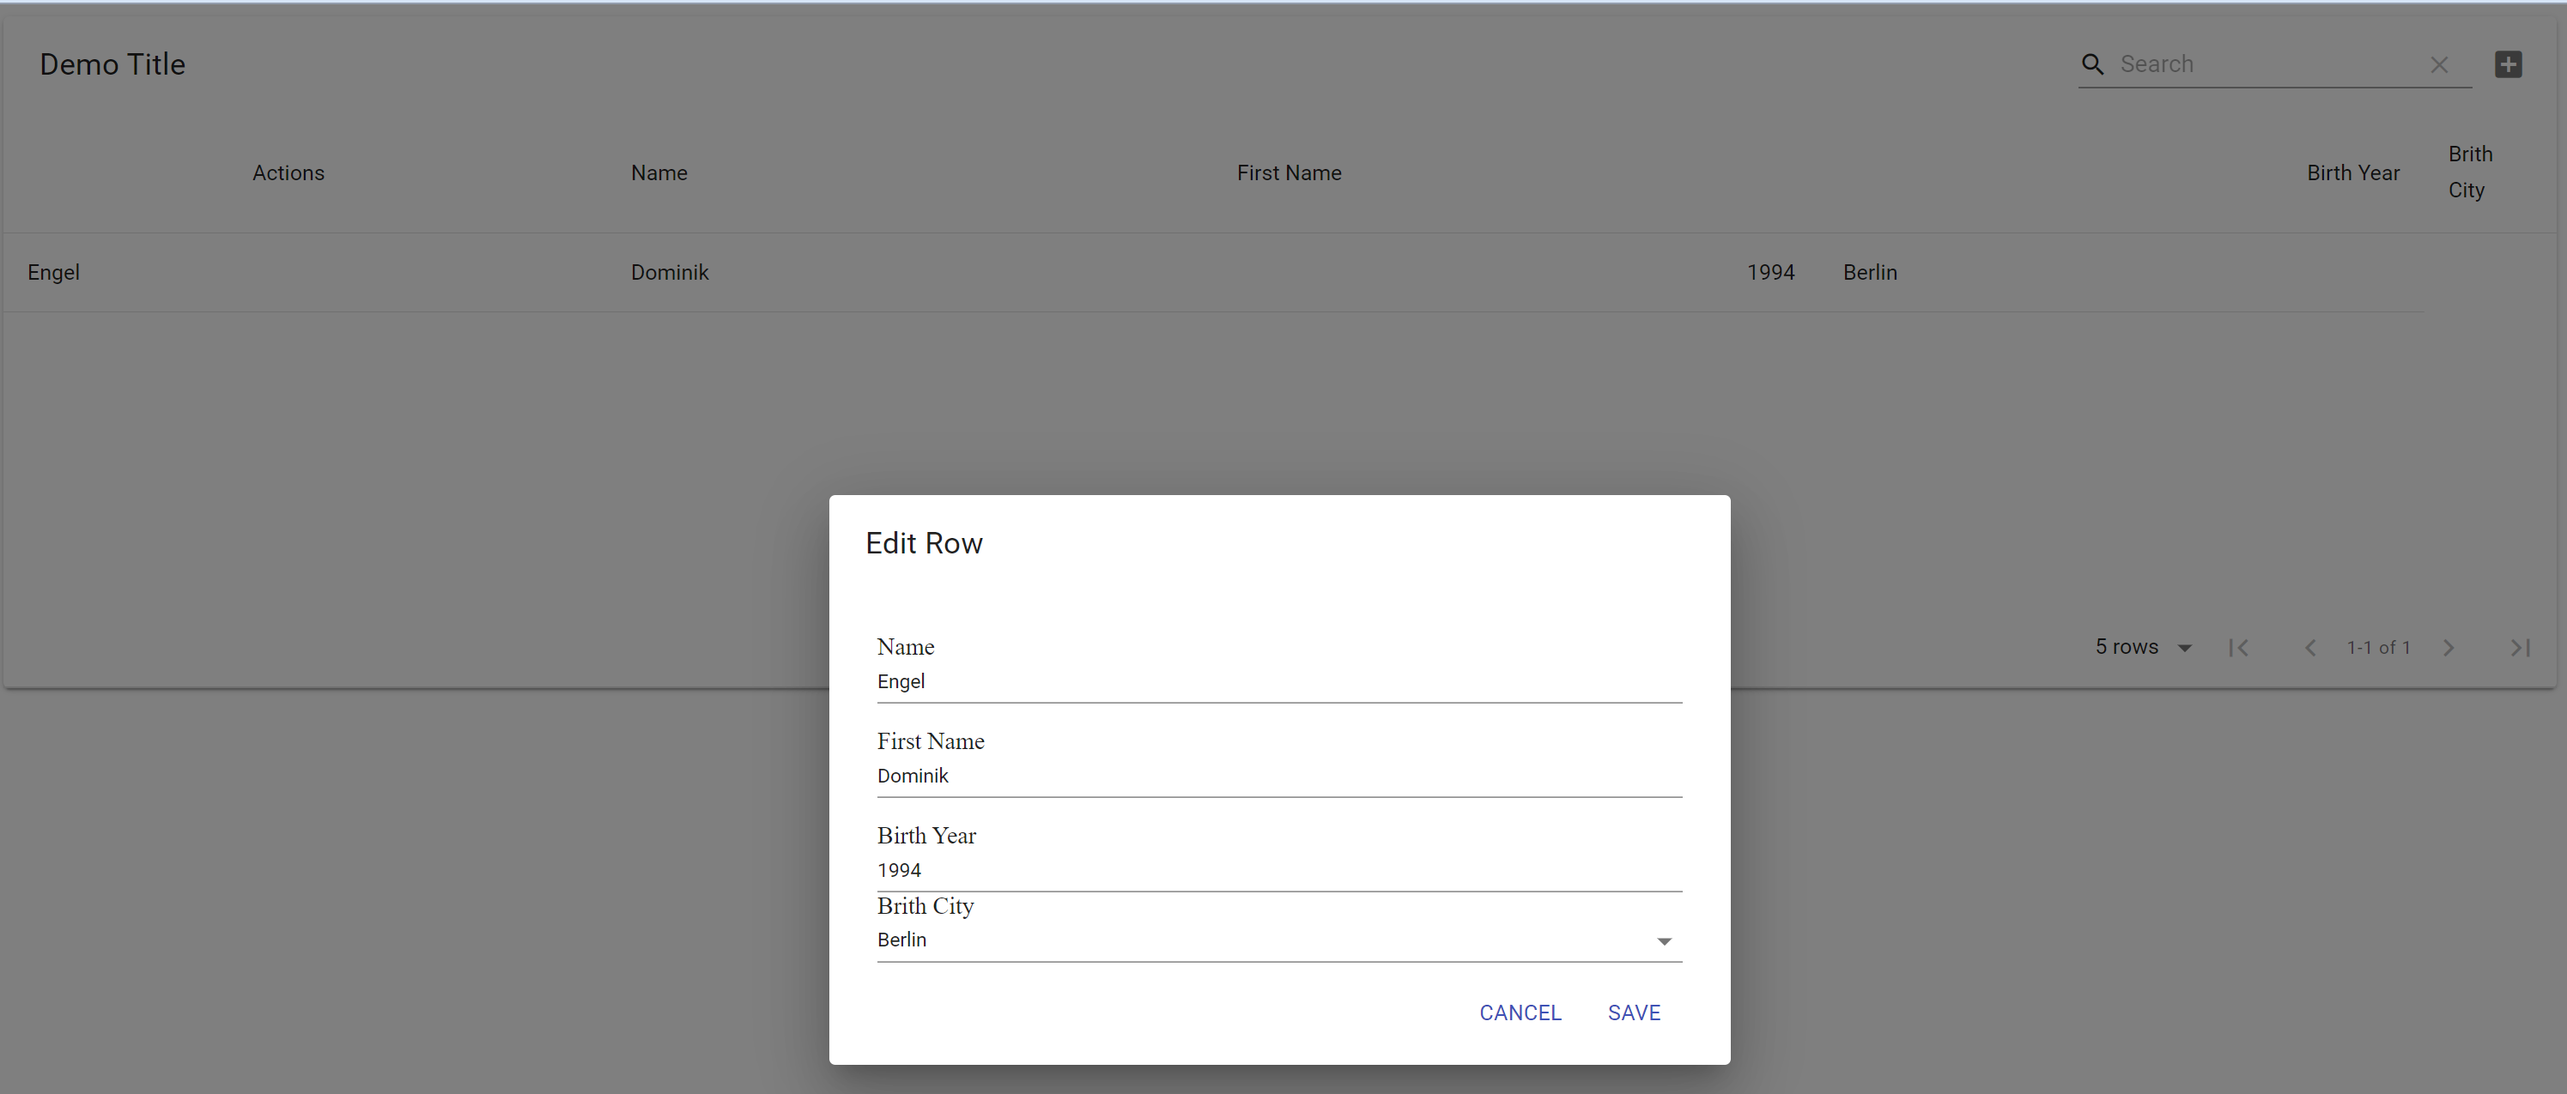
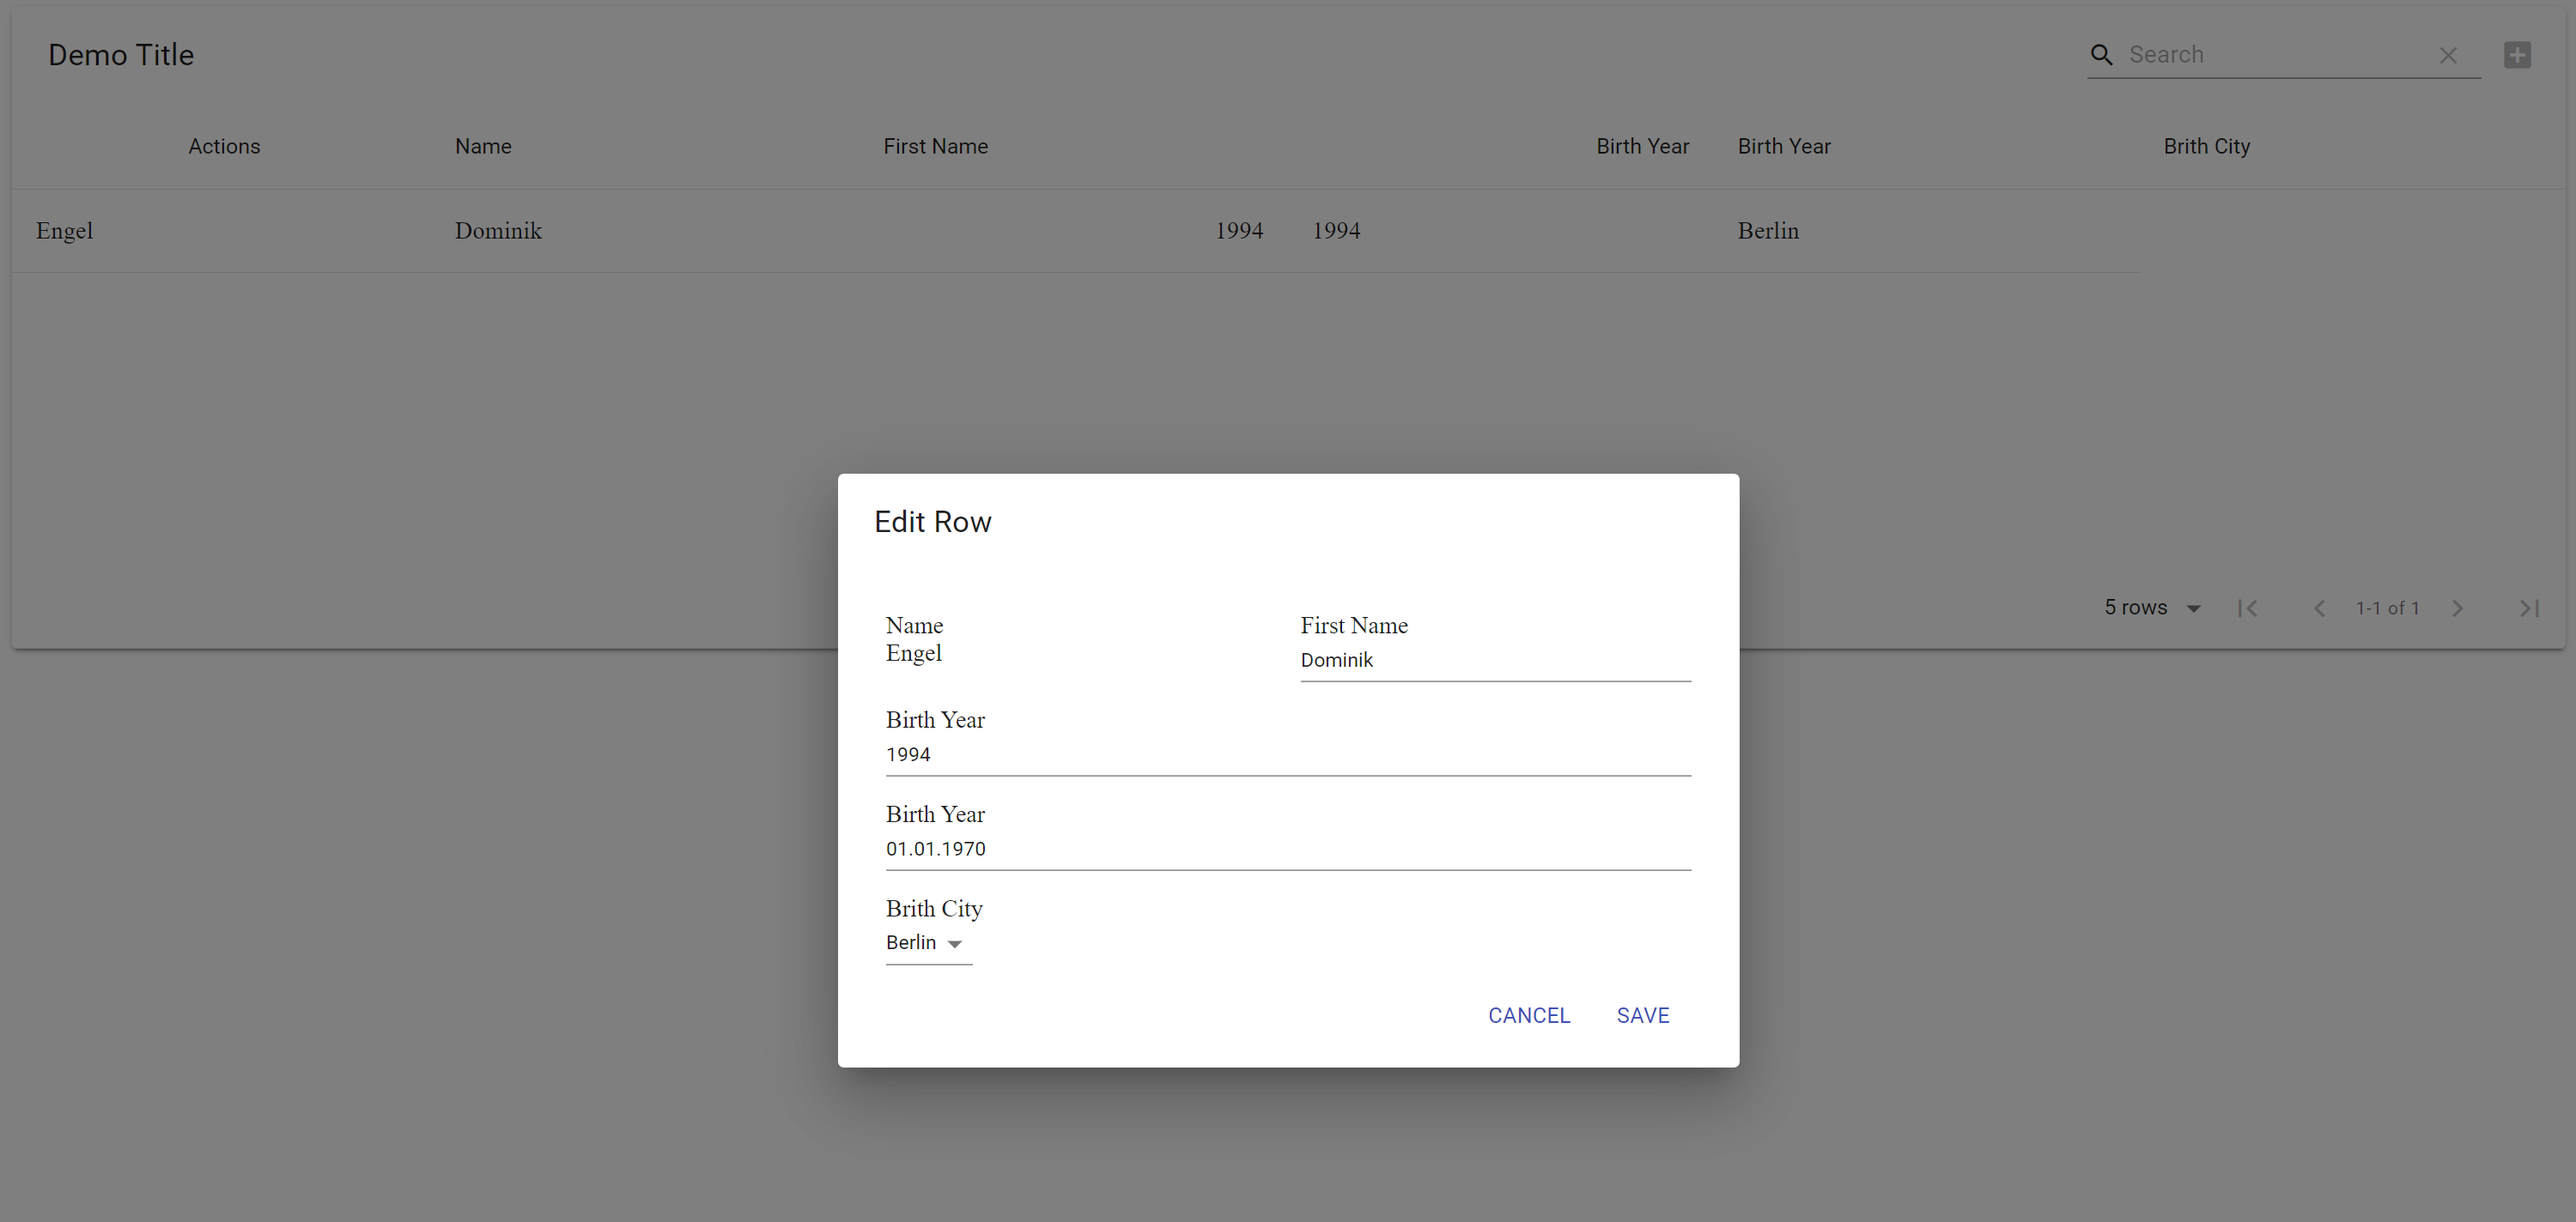
Support for Grid

diff --git a/src/index.tsx b/src/index.tsx
@@ -21,6 +21,8 @@ import {
   CircularProgress,
   makeStyles,
   DialogContentText,
+  Grid,
+  GridProps,
 } from '@material-ui/core';
 
 const useStyles = makeStyles({
@@ -28,6 +30,10 @@ const useStyles = makeStyles({
     padding: 8,
   },
 });
+
+interface IColumn<Data extends object> extends Column<Data> {
+  gridProps?: Partial<GridProps>;
+}
 
 interface IData extends Object {
   tableData?: {};
@@ -38,6 +44,7 @@ interface IFormikWrapperProps<RowData extends IData>
   validate?: (value: RowData) => void | object | Promise<FormikErrors<RowData>>;
   validationSchema?: any | (() => any);
   localization?: IWrapperLocalization;
+  columns: IColumn<RowData>[];
 }
 
 interface IWrapperLocalization extends Localization {
@@ -106,7 +113,7 @@ interface IFormikDialogProps<RowData extends IData> {
   };
   editField: (props: any) => React.ReactElement<any>;
   displayField: (props: any) => React.ReactElement<any>;
-  columns: Column<RowData>[];
+  columns: IColumn<RowData>[];
   data?: RowData;
   components: Components;
   icons: Icons;
@@ -180,7 +187,7 @@ function FormikDialog<RowData extends IData>({
       break;
   }
   const getEditCell = (
-    column: Column<RowData>,
+    column: IColumn<RowData>,
     field: any,
     meta: any,
     setValues: (rowData: RowData) => void
@@ -214,7 +221,7 @@ function FormikDialog<RowData extends IData>({
         value: field.value,
         onChange,
         onRowDataChange,
-        columnDef: column as EditCellColumnDef,
+        columnDef: (column as any) as EditCellColumnDef,
         error: meta.error !== undefined,
       });
     } else {
@@ -225,7 +232,6 @@ function FormikDialog<RowData extends IData>({
         helperText: meta.error,
         error: meta.error !== undefined,
       };
-      console.log(errorProps);
       return (
         <EditCell
           {...field}
@@ -260,24 +266,31 @@ function FormikDialog<RowData extends IData>({
           {({ isSubmitting, handleSubmit, setValues }) => (
             <form onSubmit={handleSubmit}>
               <DialogContent>
-                {mode !== 'delete' &&
-                  columns
-                    .filter(column => isColumnVisible(column, mode))
-                    .map(column => (
-                      <Field key={column.field} name={column.field}>
-                        {({ field, meta }: FieldAttributes<any>) => {
-                          return (
-                            <div className={classes.field}>
-                              <label htmlFor={column.field as string}>
-                                {column.title}
-                              </label>
-                              <br />
-                              {getEditCell(column, field, meta, setValues)}
-                            </div>
-                          );
-                        }}
-                      </Field>
-                    ))}
+                <Grid container={true}>
+                  {mode !== 'delete' &&
+                    columns
+                      .filter(column => isColumnVisible(column, mode))
+                      .map(column => (
+                        <Field key={column.field} name={column.field}>
+                          {({ field, meta }: FieldAttributes<any>) => {
+                            return (
+                              <Grid
+                                className={classes.field}
+                                item={true}
+                                xs={12}
+                                {...column.gridProps}
+                              >
+                                <label htmlFor={column.field as string}>
+                                  {column.title}
+                                </label>
+                                <br />
+                                {getEditCell(column, field, meta, setValues)}
+                              </Grid>
+                            );
+                          }}
+                        </Field>
+                      ))}
+                </Grid>
                 {mode === 'delete' && (
                   <DialogContentText>
                     {localization.deleteText}
@@ -319,7 +332,7 @@ function FormikDialog<RowData extends IData>({
 }
 
 function canEdit<RowData extends object>(
-  column: Column<RowData>,
+  column: IColumn<RowData>,
   mode?: 'add' | 'update' | 'delete',
   data?: RowData
 ): boolean {
@@ -337,7 +350,7 @@ function canEdit<RowData extends object>(
 }
 
 function isColumnVisible<RowData extends object>(
-  column: Column<RowData>,
+  column: IColumn<RowData>,
   mode?: 'add' | 'update' | 'delete'
 ) {
   if (mode === 'add') {
@@ -347,3 +360,5 @@ function isColumnVisible<RowData extends object>(
 }
 
 export default FormikWrapper;
+
+export { IFormikWrapperProps, IColumn };

diff --git a/example/index.tsx b/example/index.tsx
@@ -25,8 +25,18 @@ const App = () => {
       <Table
         validationSchema={AddSchema}
         columns={[
-          { title: 'Name', field: 'name', editable: 'onAdd', hidden: true },
-          { title: 'First Name', field: 'surname', editable: 'onUpdate' },
+          {
+            title: 'Name',
+            field: 'name',
+            editable: 'onAdd',
+            gridProps: { xs: 6 },
+          },
+          {
+            title: 'First Name',
+            field: 'surname',
+            editable: 'onUpdate',
+            gridProps: { xs: 6 },
+          },
           {
             title: 'Birth Year',
             field: 'birthYear',

diff --git a/README.md b/README.md
@@ -6,17 +6,27 @@ It displays dialogs instead of the inline edit for the Add, Update and Delete ac
 
 Additionally, it allows the validation with [Formik](https://github.com/jaredpalmer/formik) and [YUP](https://github.com/jquense/yup) for these actions as well.
 
+## Now with Grid Support
+
+Add [Material-ui Grid Props](https://material-ui.com/api/grid/) with gridProps to the columns to order the edit fields within the dialog.
+
+``` 
+gridProps: { xs: 12, md: 6 }
+```
 
 ## Screenshot
+
 ![Example Display](screenshot.png)
 
 ## Requirement
+
 To use material-table-formik, you must use react@16.8.0 or greater which includes hooks.
 
 ## Installation
+
 This package is distributed via [npm](https://www.npmjs.com/package/material-table-formik).
 
-```
+``` 
 $ yarn add material-table-formik
 # or
 $ npm install --save material-table-formik
@@ -25,27 +35,28 @@ $ npm install --save material-table-formik
 ## Getting Started
 
 Simply exchange the material table import:
-```
+
+``` 
 import MaterialTable from "material-table";
 ```
+
 with
+
 ``` 
 import MaterialTable from "material-table-formik";
 ```
 
 This will display the edit/update/delete action in a separate dialog instead inline.
 
-
-
 ## Props
 
-In addition to the material table props, it also acceepts these optional props:
+In addition to the material table props, it also accepts these optional props:
 
   Name | Type | Description |
 |---|---|---|
 | validate | (value: RowData) => void \| object \| Promise<FormikErrors<RowData>>; | The Formik validation to be applied to each field |
 | validationSchema |  any \| (() => any) | The YUP validation schema |
-| localization | deleteHeader?: string <br> deleteAction?: string | The added localisations for the dialog |
+| localization | deleteHeader?: string <br> deleteAction?: string | The added localizations for the dialog |
   
 
 ## Author
@@ -55,4 +66,3 @@ In addition to the material table props, it also acceepts these optional props:
 This project follows the all-contributors specification. Contributions of any kind welcome!
 
 Built with [TSDX](https://github.com/jaredpalmer/tsdx)
-
